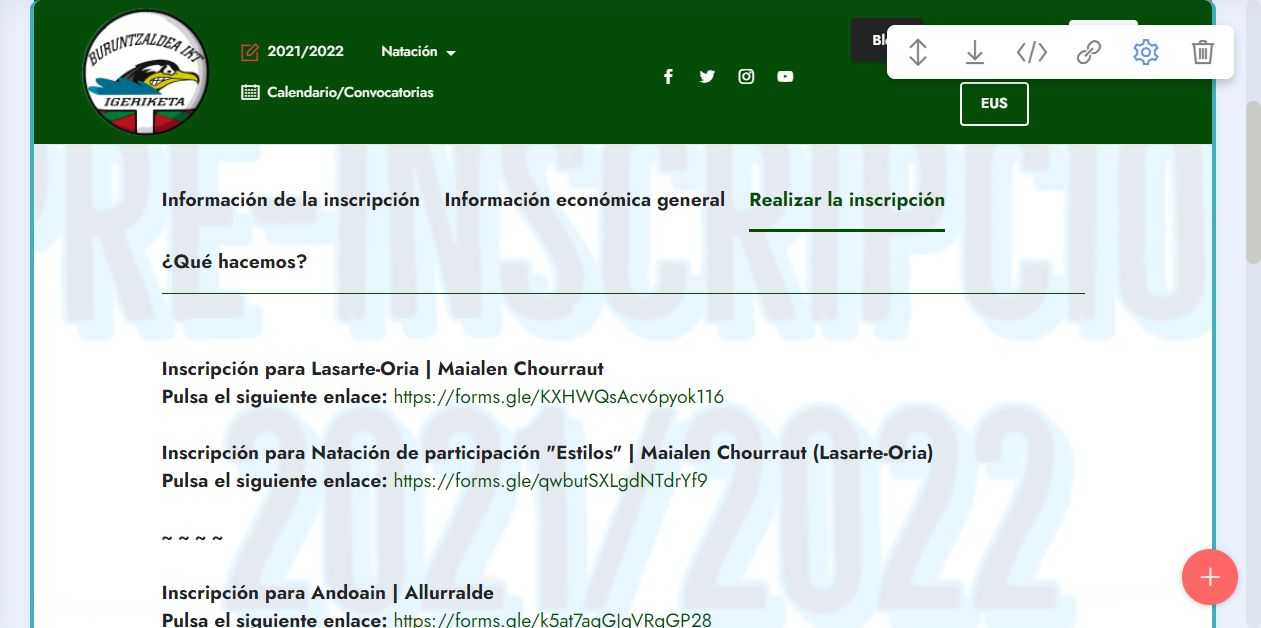
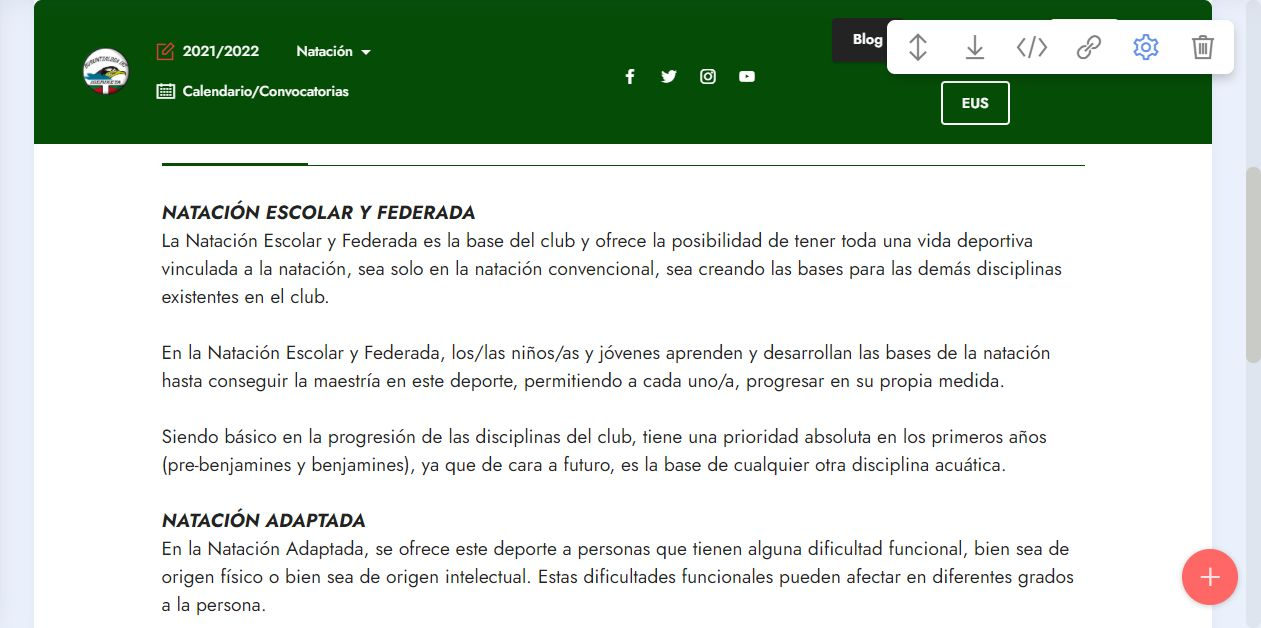
.

diff --git a/inscripcion2122.html b/inscripcion2122.html
@@ -114,12 +114,11 @@
     </div>
 </section>
 
-<section class="tabs content18 cid-svLTMnAy59" id="inscripción">
+<section class="tabs content18 cid-sAoltx8ezr" id="tabs1-ap">
 
     
 
-    <div class="mbr-overlay" style="opacity: 0.9; background-color: rgb(255, 255, 255);">
-    </div>
+    
     <div class="container-fluid">
         <div class="row justify-content-center">
             <div class="col-12 col-md-10">
@@ -130,10 +129,10 @@
         <div class="row justify-content-center mt-4">
             <div class="col-12 col-md-10">
                 <ul class="nav nav-tabs mb-4" role="tablist">
-                    <li class="nav-item first mbr-fonts-style"><a class="nav-link mbr-fonts-style show active display-7" role="tab" data-toggle="tab" href="#tabs1-9q_tab0" aria-selected="true"><strong>Información de la inscripción</strong></a></li>
-                    <li class="nav-item"><a class="nav-link mbr-fonts-style active display-7" role="tab" data-toggle="tab" href="#tabs1-9q_tab1" aria-selected="true"><strong>Información económica general</strong></a></li>
-                    <li class="nav-item"><a class="nav-link mbr-fonts-style active display-7" role="tab" data-toggle="tab" href="#inscripción_tab2" aria-selected="true"><strong>Realizar la inscripción</strong></a></li>
-                    <li class="nav-item"><a class="nav-link mbr-fonts-style active display-7" role="tab" data-toggle="tab" href="#tabs1-9q_tab3" aria-selected="true"><strong>¿Qué hacemos?</strong></a></li>
+                    <li class="nav-item first mbr-fonts-style"><a class="nav-link mbr-fonts-style show active display-7" role="tab" data-toggle="tab" href="#tabs1-ap_tab0" aria-selected="true"><strong>Realizar la INSCRIPCIÓN</strong></a></li>
+                    <li class="nav-item"><a class="nav-link mbr-fonts-style active display-7" role="tab" data-toggle="tab" href="#tabs1-ap_tab1" aria-selected="true"><strong>Información de la inscripción</strong></a></li>
+                    <li class="nav-item"><a class="nav-link mbr-fonts-style active display-7" role="tab" data-toggle="tab" href="#tabs1-ap_tab2" aria-selected="true"><strong>Información económica general</strong></a></li>
+                    <li class="nav-item"><a class="nav-link mbr-fonts-style active display-7" role="tab" data-toggle="tab" href="#tabs1-ap_tab3" aria-selected="true"><strong>¿Qué hacemos?</strong></a></li>
                     
                     
                 </ul>
@@ -141,61 +140,76 @@
                     <div id="tab1" class="tab-pane in active" role="tabpanel">
                         <div class="row">
                             <div class="col-md-12">
-                                <p class="mbr-text mbr-fonts-style display-7"><strong><em>
-                                    </em></strong>La próxima temporada, la edad de inicio más temprana en el club será: nacidas/os en 2014 y anteriores en Lasarte-Oria y nacidas/os en 2013 y anteriores en Andoain. La nueva temporada comenzará la semana del 13 de septiembre de 2021, cada cual en sus días y horarios.<br><br><strong><em>Debido a la situación epidemiológica actual, puede suceder que la próxima temporada también tengamos limitaciones en cuanto a usos horarios, de espacio etc. en las instalaciones y también en cuanto a numero de participantes durante los entrenamientos. En principio, en ambos polideportivos, contamos con el mismo calendario y con los mismos horarios de esta temporada.</em></strong><br><br><strong><em>Una vez hecha la inscripción, antes del inicio de la próxima temporada, enviaremos un email recordatorio a quienes se hayan inscrito.</em></strong><br><br>Si quieres resolver cualquier duda o cualquier otra pregunta, utiliza cualquiera de nuestros principales canales de comunicación: el <a href="tel:+34-696506632" class="text-primary">696 506 632</a>, el correo electrónico <a href="mailto:info@buruntzaldeaikt.eus" class="text-primary">info@buruntzaldeaikt.eus</a> o el contacto por WhatsApp en el <a href="https://wa.me/34696506632" class="text-primary">696 506 632</a>.<br><br><br></p>
+                                <p class="mbr-text mbr-fonts-style display-7"><strong>Inscripción para Lasarte-Oria | Maialen Chourraut
+</strong><br>Pulsa el siguiente enlace: <a href="https://forms.gle/KXHWQsAcv6pyok116" class="text-primary" target="_blank">https://forms.gle/KXHWQsAcv6pyok116</a>
+<br>
+<br><strong>Inscripción para Natación de participación "Estilos" | Maialen Chourraut (Lasarte-Oria)
+</strong><br>Pulsa el siguiente enlace: <a href="https://forms.gle/qwbutSXLgdNTdrYf9" class="text-primary" target="_blank">https://forms.gle/qwbutSXLgdNTdrYf9</a>
+<br>
+<br>~ ~ ~ ~
+<br>
+<br><strong>Inscripción para Andoain | Allurralde
+</strong><br>Pulsa el siguiente enlace: <a href="https://forms.gle/k5at7aqGJqVRqGP28" class="text-primary" target="_blank">https://forms.gle/k5at7aqGJqVRqGP28</a>
+<br>
+<br>~ ~ ~ ~
+<br>
+<br><strong>Dar de baja
+</strong><br>Pulsa el siguiente enlace: <a href="https://forms.gle/S8KmbWn8nedrxV3S7" class="text-primary" target="_blank">https://forms.gle/S8KmbWn8nedrxV3S7</a></p>
                             </div>
                         </div>
                     </div>
                     <div id="tab2" class="tab-pane" role="tabpanel">
                         <div class="row">
                             <div class="col-md-12">
-                                <p class="mbr-text mbr-fonts-style display-7">Toda la información económica relativa a la cuota anual está disponible en el propio formulario de inscripción.<br><br># Se aplican descuentos por cantidad de familiares en el club.<br># Se aplican descuentos por ayudas RGI.<br><br><br></p>
+                                <p class="mbr-text mbr-fonts-style display-7">La próxima temporada, la edad de inicio más temprana en el club será: nacidas/os en 2014 y anteriores en Lasarte-Oria y nacidas/os en 2013 y anteriores en Andoain. La nueva temporada comenzará la semana del 13 de septiembre de 2021, cada cual en sus días y horarios.
+<br>
+<br><strong><em>Debido a la situación epidemiológica actual, puede suceder que la próxima temporada también tengamos limitaciones en cuanto a usos horarios, de espacio etc. en las instalaciones y también en cuanto a numero de participantes durante los entrenamientos. En principio, en ambos polideportivos, contamos con el mismo calendario y con los mismos horarios de esta temporada.
+</em></strong><br>
+<br><strong><em>Una vez hecha la inscripción, antes del inicio de la próxima temporada, enviaremos un email recordatorio a quienes se hayan inscrito.
+</em></strong><br>
+<br>Si quieres resolver cualquier duda o cualquier otra pregunta, utiliza cualquiera de nuestros principales canales de comunicación: el <a href="tel:+34696506632" class="text-primary">696 506 632</a>, el correo electrónico <a href="mailto:info@buruntzaldeaikt.eus" class="text-primary">info@buruntzaldeaikt.eus</a> o el contacto por WhatsApp en el <a href="https://wa.me/34696506632" class="text-primary">696 506 632</a>.</p>
                             </div>
                         </div>
                     </div>
                     <div id="tab3" class="tab-pane" role="tabpanel">
                         <div class="row">
                             <div class="col-md-12">
-                                <p class="mbr-text mbr-fonts-style display-7"><strong><a id="inscripciones" href="#inscripciones" class="text-primary"></a>
-</strong><strong><b>Inscripción para Lasarte-Oria | Maialen Chourraut
-</b><br>Pulsa el siguiente enlace: <a href="https://forms.gle/KXHWQsAcv6pyok116" class="text-primary" target="_blank">https://forms.gle/KXHWQsAcv6pyok116</a><br><br><b>
-Inscripción para Natación de participación "Estilos" | Maialen Chourraut (Lasarte-Oria) </b><br>Pulsa el siguiente enlace: <a href="https://forms.gle/qwbutSXLgdNTdrYf9" class="text-primary" target="_blank">https://forms.gle/qwbutSXLgdNTdrYf9</a><br><br>
-~ ~ ~ ~
-<br><br><b>
-Inscripción para Andoain | Allurralde
-</b><br>Pulsa el siguiente enlace: <a href="https://forms.gle/k5at7aqGJqVRqGP28" class="text-primary" target="_blank">https://forms.gle/k5at7aqGJqVRqGP28</a>
-<br><br>
-~ ~ ~ ~<br><br><b>Dar de baja </b><br>
-Pulsa el siguiente enlace: <a href="https://forms.gle/S8KmbWn8nedrxV3S7" class="text-primary" target="_blank">https://forms.gle/S8KmbWn8nedrxV3S7</a><br><br><br></strong></p><strong>
-                            </strong></div><strong>
-                        </strong></div><strong>
-                    </strong></div><strong>
+                                <p class="mbr-text mbr-fonts-style display-7">Toda la información económica relativa a la cuota anual está disponible en el propio formulario de inscripción.
+<br>
+<br># Se aplican descuentos por cantidad de familiares en el club.
+<br># Se aplican descuentos por ayudas RGI.</p>
+                            </div>
+                        </div>
+                    </div>
                     <div id="tab4" class="tab-pane" role="tabpanel">
                         <div class="row">
                             <div class="col-md-12">
-                                <p class="mbr-text mbr-fonts-style display-7"><b>NATACIÓN ESCOLAR Y FEDERADA
-</b><br>La Natación Escolar y Federada es la base del club y ofrece la posibilidad de tener toda una vida deportiva vinculada a la natación, sea solo en la natación convencional, sea creando las bases para las demás disciplinas existentes en el club.
+                                <p class="mbr-text mbr-fonts-style display-7"><strong><em>NATACIÓN ESCOLAR Y FEDERADA
+</em></strong><br>La Natación Escolar y Federada es la base del club y ofrece la posibilidad de tener toda una vida deportiva vinculada a la natación, sea solo en la natación convencional, sea creando las bases para las demás disciplinas existentes en el club.
 <br>
 <br>En la Natación Escolar y Federada, los/las niños/as y jóvenes aprenden y desarrollan las bases de la natación hasta conseguir la maestría en este deporte, permitiendo a cada uno/a, progresar en su propia medida.
 <br>
 <br>Siendo básico en la progresión de las disciplinas del club, tiene una prioridad absoluta en los primeros años (pre-benjamines y benjamines), ya que de cara a futuro, es la base de cualquier otra disciplina acuática.
 <br>
-<br><b>NATACIÓN ADAPTADA
-</b><br>En la Natación Adaptada, se ofrece este deporte a personas que tienen alguna dificultad funcional, bien sea de origen físico o bien sea de origen intelectual. Estas dificultades funcionales pueden afectar en diferentes grados a la persona.<br>
-<br>La Natación Adaptada permite a la persona afectada participar en el deporte, teniendo como objetivo la inclusión social y deportiva y ofreciendo toda una trayectoria dentro de la natación competitiva. <a href="adaptada.html" class="text-primary"><b><em>&lt;&lt; Conoce la Natación Adaptada &gt;&gt;</em></b></a><br><br><b>NATACIÓN DE PARTICIPACIÓN, "ESTILOS"
-</b><br>En esta actividad que se desarrolla una o dos veces por semana el objetivo principal es facilitar la posibilidad de nadar a quienes quieran iniciarse en la natación o a quienes quieran mejorar sus habilidades acuáticas.
+<br><em><strong>NATACIÓN ADAPTADA
+</strong></em><br>En la Natación Adaptada, se ofrece este deporte a personas que tienen alguna dificultad funcional, bien sea de origen físico o bien sea de origen intelectual. Estas dificultades funcionales pueden afectar en diferentes grados a la persona.
 <br>
-<br>Las sesiones se centran en la enseñanza y mejora de las habilidades acuáticas básicas y de la iniciación y desarrollo de los estilos de natación permitiendo, al mismo tiempo, practicar una natación participativa.<b><em><a href="adaptada.html" class="text-primary"><br></a></em></b></p>
+<br>La Natación Adaptada permite a la persona afectada participar en el deporte, teniendo como objetivo la inclusión social y deportiva y ofreciendo toda una trayectoria dentro de la natación competitiva. <strong><em><a href="adaptada.html" class="text-primary"><b><i>&lt;&lt; Conoce la Natación Adaptada &gt;&gt;</i></b></a>
+</em></strong><br>
+<br><em><strong>NATACIÓN DE PARTICIPACIÓN, "ESTILOS"
+</strong></em><br>En esta actividad que se desarrolla una o dos veces por semana el objetivo principal es facilitar la posibilidad de nadar a quienes quieran iniciarse en la natación o a quienes quieran mejorar sus habilidades acuáticas.
+<br>
+<br>Las sesiones se centran en la enseñanza y mejora de las habilidades acuáticas básicas y de la iniciación y desarrollo de los estilos de natación permitiendo, al mismo tiempo, practicar una natación participativa.</p>
                             </div>
                         </div>
                     </div>
                     
                     
-                </strong></div><strong>
-            </strong></div><strong>
-        </strong></div><strong>
-    </strong></div><strong>
-</strong></section>
+                </div>
+            </div>
+        </div>
+    </div>
+</section>
 
 <section class="mbr-section mbr-section--no-padding cid-svMjoCU3XA" id="witsec-html-block-9s">
 

diff --git a/assets/mobirise/css/mbr-additional.css b/assets/mobirise/css/mbr-additional.css
@@ -12755,54 +12755,52 @@ a {
     text-align: center;
   }
 }
-.cid-svLTMnAy59 {
-  padding-top: 5rem;
-  padding-bottom: 0rem;
-  background-image: url("../../../assets/images/cas-escolares-2000x1414.png");
+.cid-sAoltx8ezr {
+  padding-top: 6rem;
+  padding-bottom: 6rem;
+  text-align: justify;
+  background-color: #ffffff;
 }
-.cid-svLTMnAy59 .nav-tabs .nav-item.open .nav-link:focus,
-.cid-svLTMnAy59 .nav-tabs .nav-link.active:focus {
+.cid-sAoltx8ezr .nav-tabs .nav-item.open .nav-link:focus,
+.cid-sAoltx8ezr .nav-tabs .nav-link.active:focus {
   outline: none;
 }
-.cid-svLTMnAy59 .nav-tabs {
+.cid-sAoltx8ezr .nav-tabs {
   flex-wrap: wrap;
   border-bottom: 1px solid #054d07;
 }
 @media (max-width: 767px) {
-  .cid-svLTMnAy59 .nav-item {
+  .cid-sAoltx8ezr .nav-item {
     width: 100%;
     margin: 0;
   }
 }
-.cid-svLTMnAy59 .nav-tabs .nav-link {
+.cid-sAoltx8ezr .nav-tabs .nav-link {
   transition: all .5s;
   border: none;
   border-bottom: 3px solid transparent;
   border-radius: 0 !important;
 }
-.cid-svLTMnAy59 .nav-tabs .nav-link:not(.active) {
-  color: #232323;
+.cid-sAoltx8ezr .nav-tabs .nav-link:not(.active) {
+  color: #000000;
 }
-.cid-svLTMnAy59 .nav-tabs .nav-item {
+.cid-sAoltx8ezr .nav-tabs .nav-item {
   margin-right: 1.5rem;
 }
-.cid-svLTMnAy59 .nav-link,
-.cid-svLTMnAy59 .nav-link.active {
+.cid-sAoltx8ezr .nav-link,
+.cid-sAoltx8ezr .nav-link.active {
   padding: 1rem 0;
   background-color: transparent;
 }
-.cid-svLTMnAy59 .nav-tabs .nav-link.active {
+.cid-sAoltx8ezr .nav-tabs .nav-link.active {
   color: #054d07;
   border-bottom: 3px solid #054d07;
 }
-.cid-svLTMnAy59 H4 {
+.cid-sAoltx8ezr H4 {
   text-align: center;
 }
-.cid-svLTMnAy59 H3 {
+.cid-sAoltx8ezr H3 {
   text-align: center;
-}
-.cid-svLTMnAy59 p {
-  text-align: justify;
 }
 .cid-svMjoCU3XA body,
 .cid-svMjoCU3XA html {

diff --git a/calendario-convocatorias.html b/calendario-convocatorias.html
@@ -916,7 +916,7 @@
     </div>
 </section>
 
-<section class="mbr-section" id="witsec-modal-window-block-8c" data-rv-view="7639">
+<section class="mbr-section" id="witsec-modal-window-block-8c" data-rv-view="8191">
 
 	<style>
 	/* Let's not animate the contents of modal windows */

diff --git a/index.html b/index.html
@@ -114,7 +114,7 @@
     </div>
 </section>
 
-<section class="mbr-section" id="witsec-modal-window-block-9y" data-rv-view="7463">
+<section class="mbr-section" id="witsec-modal-window-block-9y" data-rv-view="8015">
 
 	<style>
 	/* Let's not animate the contents of modal windows */
